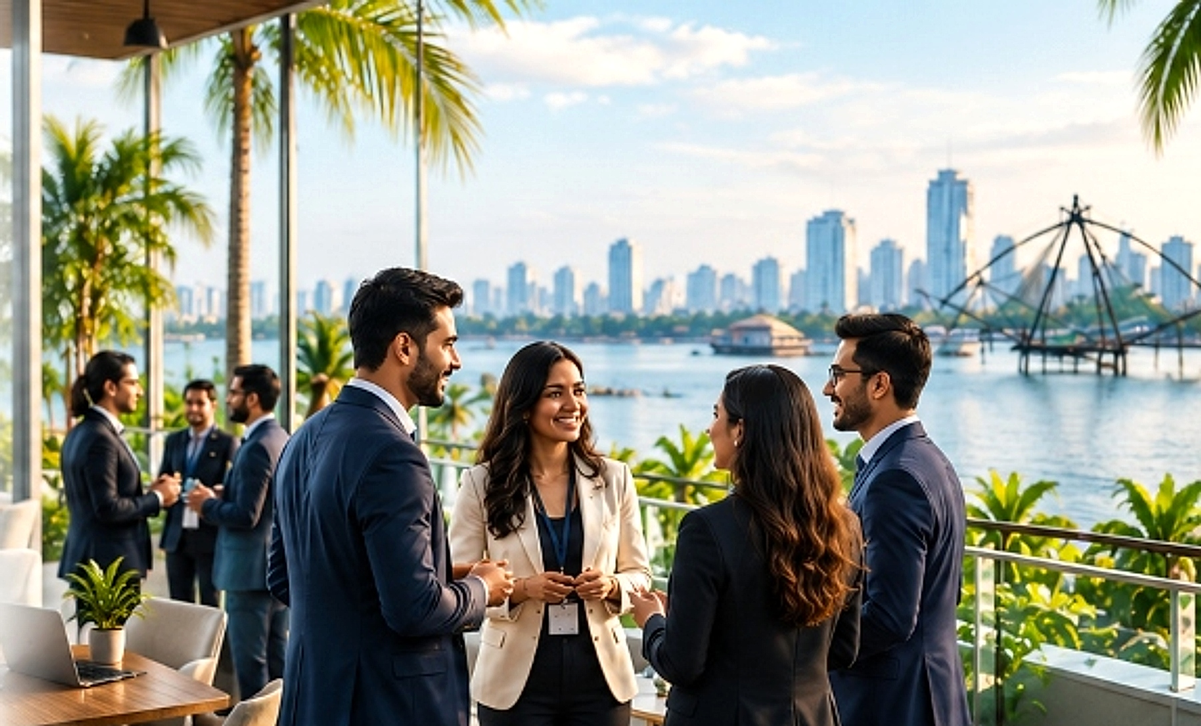
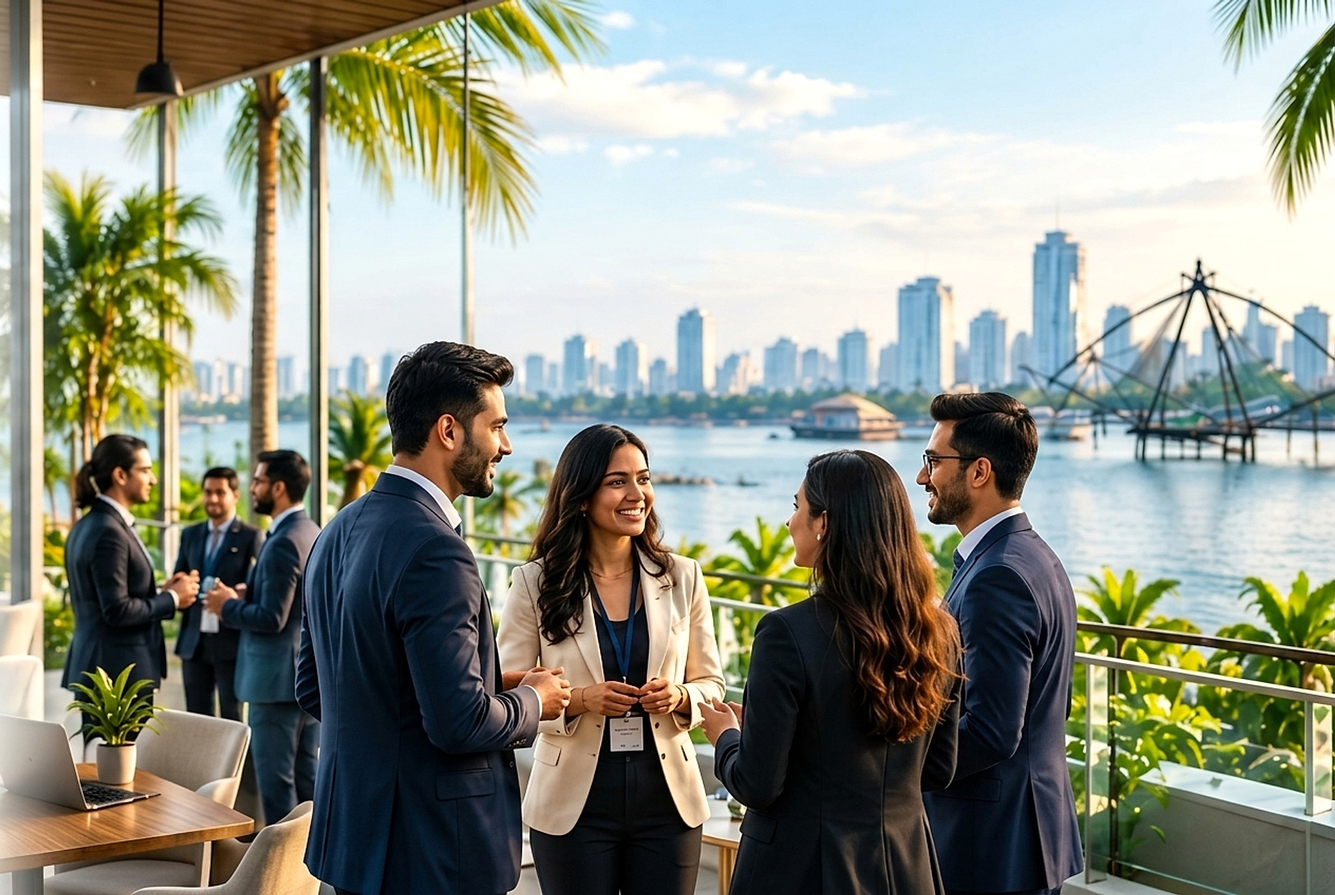
Ultra-high-definition executive facial clarity and fine-tuned focus for networking terrace

diff --git a/business-owners-circle/src/components/BOCWhyBOC.jsx b/business-owners-circle/src/components/BOCWhyBOC.jsx
@@ -116,7 +116,7 @@ export default function BOCWhyBOC({ onOpenJoinModal }) {
           <img 
             src={bocNetworkingTerrace} 
             alt="BOC Business Professionals Networking on Waterfront Terrace"
-            className="w-full h-full object-cover object-[25%_center] contrast-[1.03] brightness-[1.01]"
+            className="w-full h-full object-cover object-[center_30%] contrast-[1.03] brightness-[1.01]"
           />
           {/* Subtle soft left feather strip (strictly on the far left margin, NOT over the people) */}
           <div className="absolute top-0 bottom-0 left-0 w-28 bg-gradient-to-r from-[#FAF8F5] via-[#FAF8F5]/50 to-transparent pointer-events-none" />
@@ -159,7 +159,7 @@ export default function BOCWhyBOC({ onOpenJoinModal }) {
                 <img 
                   src={bocNetworkingTerrace} 
                   alt="BOC Professionals on Terrace" 
-                  className="w-full h-full object-cover object-center contrast-[1.03] brightness-[1.01]"
+                  className="w-full h-full object-cover object-[center_25%] contrast-[1.02] brightness-[1.01]"
                 />
               </div>
 

diff --git a/src/components/BOCWhyBOC.jsx b/src/components/BOCWhyBOC.jsx
@@ -116,7 +116,7 @@ export default function BOCWhyBOC({ onOpenJoinModal }) {
           <img 
             src={bocNetworkingTerrace} 
             alt="BOC Business Professionals Networking on Waterfront Terrace"
-            className="w-full h-full object-cover object-[25%_center] contrast-[1.03] brightness-[1.01]"
+            className="w-full h-full object-cover object-[center_30%] contrast-[1.03] brightness-[1.01]"
           />
           {/* Subtle soft left feather strip (strictly on the far left margin, NOT over the people) */}
           <div className="absolute top-0 bottom-0 left-0 w-28 bg-gradient-to-r from-[#FAF8F5] via-[#FAF8F5]/50 to-transparent pointer-events-none" />
@@ -159,7 +159,7 @@ export default function BOCWhyBOC({ onOpenJoinModal }) {
                 <img 
                   src={bocNetworkingTerrace} 
                   alt="BOC Professionals on Terrace" 
-                  className="w-full h-full object-cover object-center contrast-[1.03] brightness-[1.01]"
+                  className="w-full h-full object-cover object-[center_25%] contrast-[1.02] brightness-[1.01]"
                 />
               </div>
 
